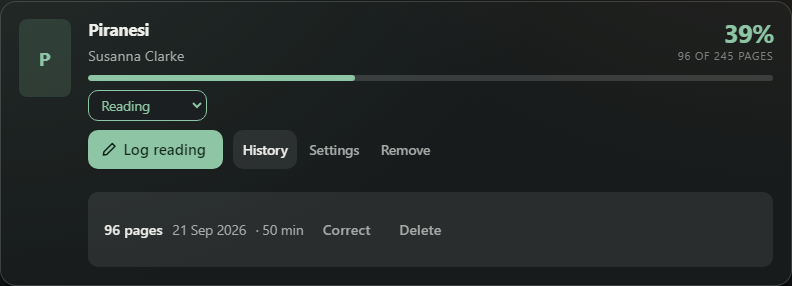
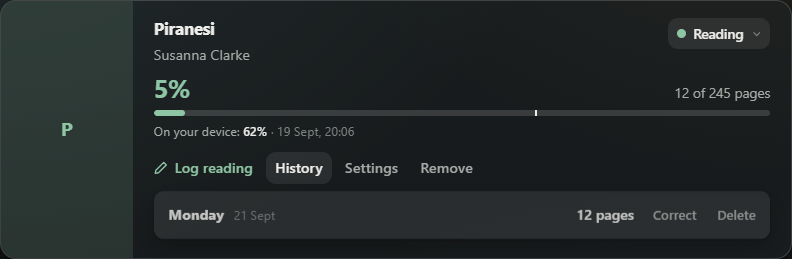
Fresh pictures of the interface, and the swipe shown moving
The screenshots predated the card layout, the covers, the status pills and
the phone's tab strip; all ten are retaken from the same local shelf, in
dark and en-GB as before. Two GIFs join them showing the phone's swipe: one
through the tabs, the list following the finger and the page's shade
changing, and one of its edges, where the list gives a little and springs
back, before a drag that goes far enough turns the tab.

diff --git a/README.md b/README.md
@@ -24,19 +24,19 @@ On the shelf, each book carries its reading status, a progress bar derived from 
 
 The shelf, grouped by status with what is being read at the top, and the year's goal in the header:
 
-![The shelf: Reading at the top with progress bars, then Want to read, each group under its own heading; the header shows 11 of 24 books towards the year's goal](docs/screenshots/shelf.png)
+![The shelf on the All tab: each book a card with its cover, a status pill and a progress bar, Reading at the top and then Want to read, each group under its own heading; the header shows 11 of 24 books towards the year's goal](docs/screenshots/shelf.png)
 
-Logging a session is one form on the card, and the sessions behind the bar are a click away:
+Logging a session is one form on the card — say where you stopped — and the sessions behind the bar are a click away:
 
-![A shelf card with the Log reading form open: pages read, the date, and optional minutes](docs/screenshots/log-reading.png)
+![A shelf card with the Log reading form open: stopped at page 12 of 245 on a slider, logged for today, with a link to change the day or add the time it took](docs/screenshots/log-reading.png)
 
-![The same card with its History open: 96 pages on 21 Sep 2026, 50 minutes, with Correct and Delete](docs/screenshots/history.png)
+![The same card with its History open: 12 pages on Monday 21 Sept, with Correct and Delete](docs/screenshots/history.png)
 
 Finished books say when, and sit in that order; the year's goal opens from the header:
 
-![The Finished tab: sepia cards each saying Read, all N pages, and the day it was finished](docs/screenshots/finished.png)
+![The Finished tab: cards each saying Read, all N pages, and the day it was finished, newest first](docs/screenshots/finished.png)
 
-![The goal popover: 11 of 24 books in 2026, 8 behind pace, and a field to change the goal](docs/screenshots/goal.png)
+![The goal popover: 11 of 24 books in 2026, 7 behind pace, and a field to change the goal](docs/screenshots/goal.png)
 
 A device token puts an e-reader on the shelf without a Google sign-in — the [KOReader plugin](readingtracker.koplugin/) syncs progress from the device — and a Hardcover export lands in one go:
 
@@ -44,14 +44,21 @@ A device token puts an e-reader on the shelf without a Google sign-in — the [K
 
 ![Import from Hardcover: 50 books in the file, counted by status, listed with their authors and finish dates](docs/screenshots/import.png)
 
+On a phone the status tabs become an underlined strip, and the shelf swipes through them. The list follows the finger and, let go far enough (or flicked), slides away while the next tab's list comes in from the other side; each tab gives the page a shade of its own. At the ends, where there is no tab to go to, the list gives only a little and springs back, as does a drag too short to mean anything:
+
 <p>
-  <img src="docs/screenshots/phone.png" width="300" alt="The shelf on a phone: the same cards in one column, with a round add button in the corner" />
+  <img src="docs/screenshots/swipe-tabs.gif" width="300" alt="Swiping on a phone: Reading to Want to read to Finished and back to All, each list sliding out with the finger and the next sliding in, the background's shade shifting with the tab" />
+  <img src="docs/screenshots/swipe-edge.gif" width="300" alt="The edges of the swipe: dragging right on All, the first tab, holds the list back and it springs home; a short drag left springs back too; a longer one turns to Reading" />
+</p>
+
+<p>
+  <img src="docs/screenshots/phone.png" width="300" alt="The shelf on a phone, on the Reading tab: the same cards in one column, with a round add button in the corner" />
   <img src="docs/screenshots/account-menu.png" width="420" alt="The account menu: signed in as, Devices, Import, a Dark mode switch, Sign out" />
 </p>
 
 Signed out, the welcome page keeps a reader company with a quote:
 
-![The welcome page: a sign-in button and a quote about books](docs/screenshots/welcome.png)
+![The welcome page: a greeting, the dev sign-in, a fan of book covers with Middlemarch in front, and a quote about reading](docs/screenshots/welcome.png)
 
 The pictures are of a local run with the dev sign-in; the token shown was revoked as soon as the picture was taken.
 
